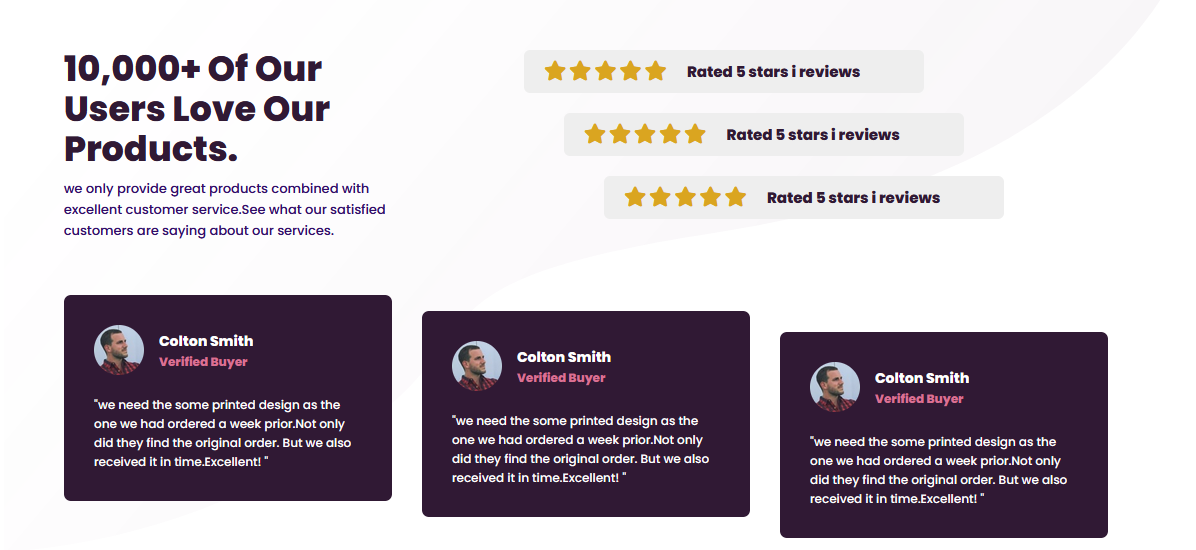
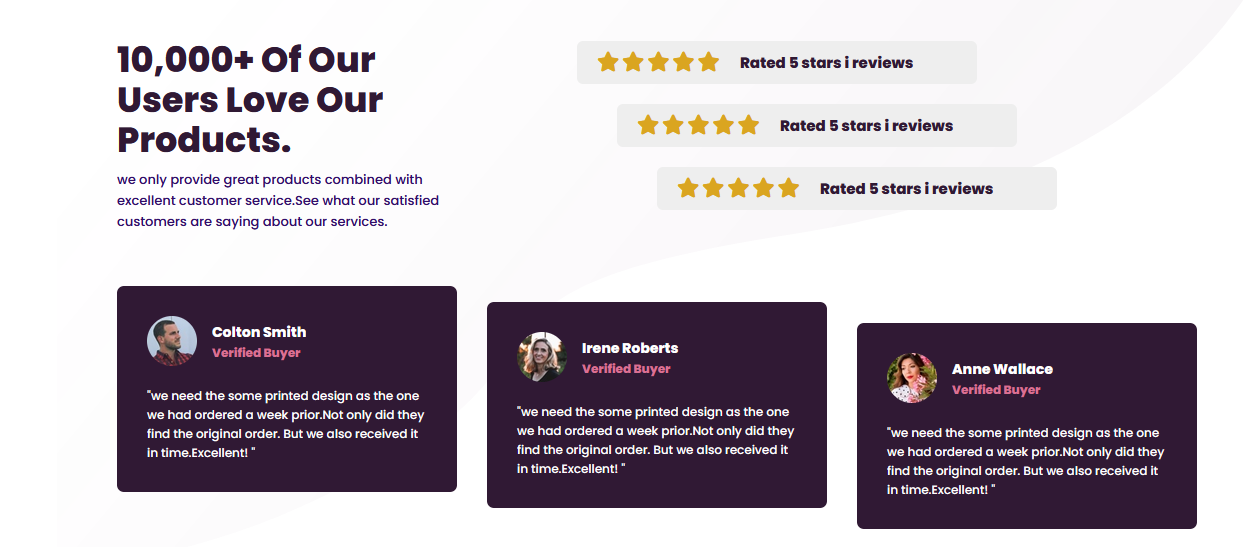
Making social Proof Section on Mobile View by using CSS media qqueries

diff --git a/style.css b/style.css
@@ -17,7 +17,7 @@ body
 .container{
     max-width: 1200px;
     width: 95%;
-    height: 100vh;
+    /* height: 100vh; */
     margin:0 auto;
     padding: 6rem;
     background:url(/images/bg-pattern-top-desktop.svg);
@@ -125,3 +125,62 @@ body
  /* #########Cards Styling starts #############*/
 
  /* =========Desktop View Styling End========= */
+
+
+
+/* ================= Mobile View =============== */
+ /* ################# max-width :374px ############## */
+
+
+
+/* ################ Media Query Start ############## */
+
+ @media screen and (max-width:374px){
+    .container{
+        width: 100%;
+        padding:1rem 3rem 3rem 3rem;
+          }
+    .products-box{
+         flex-wrap: wrap;
+       }
+    .product-text{
+        flex-basis: 40rem;
+        text-align: center;
+    } 
+    .product-text h1{
+        font-size: 3rem;
+    }
+    .product-reviews{
+        margin-top: -7rem;
+    }
+    .products-box .r1{
+        transform: translateX(0%);
+    }
+    .products-box .r3{
+        transform: translateX(0%);
+    }
+    .products-box .review{
+        display: block;
+        text-align: center;    
+    }
+    .review .stars i{
+        color:goldenrod;
+        font-size: 1.6rem;
+    }
+    .review h4{
+     font-size: 1.8rem;
+    }
+    .cards-container{
+       flex-wrap: wrap;
+       margin-top: 5rem;
+       gap: 1rem;
+     }
+     .cards-container .c1{
+        transform: translateY(0%);
+     }
+     .cards-container .c3{
+        transform: translateY(0%);
+     }
+ }
+ 
+/* ################ Media Query End ############## */
